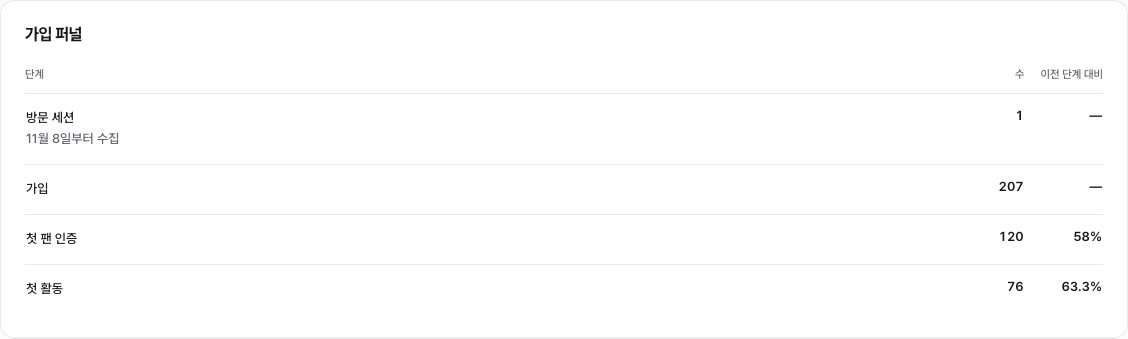
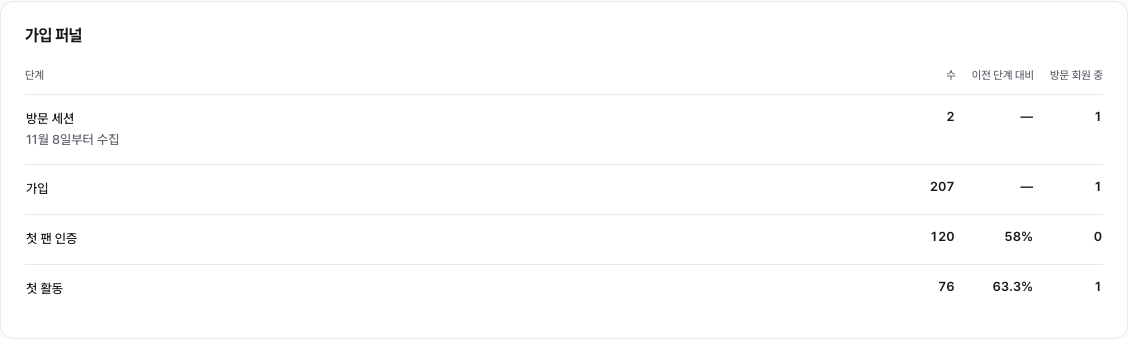
docs(analytics): record member page views, limits, group posts and the visiting-member column

diff --git a/apps/web/features/analytics/README.md b/apps/web/features/analytics/README.md
@@ -40,9 +40,10 @@
 
 `/admin/traffic`의 방문 통계는 Vercel Web Analytics 대신 원장의 `page_view`를 읽는다(운영이 AWS라 Vercel 분석은 렌더되지 않았다). Vercel 분석 패키지와 `VERCEL_ANALYTICS_*` 조회 경로는 제거했다.
 
-- `page_view`(브라우저, `PageViewTracker`): 경로가 바뀔 때 1건, 항상 익명(Authorization 헤더가 있으면 400). 속성은 `pageKind`(열거형 화면 종류), `entry`(탭 세션 첫 화면), `channel`(첫 화면만, 이후 `internal`), `device`, `browser`, `os` 여섯 개뿐이다. 경로·슬러그·쿼리·해시·참조 주소는 보내지 않는다. 관리자·운영자·크리에이터 도구·인증 경로는 세지 않는다.
+- `page_view`(브라우저, `PageViewTracker`): 경로가 바뀔 때 1건. 로그인 상태면 회원 소유, 아니면 익명 탭 세션 소유로 기록한다(내부 집계용, 외부 전송 없음, 관리자 화면은 집계만). 속성은 `pageKind`(열거형 화면 종류), `entry`(탭 세션 첫 화면), `channel`(첫 화면만, 이후 `internal`), `device`, `browser`, `os` 여섯 개뿐이다. 경로·슬러그·쿼리·해시·참조 주소는 보내지 않는다. 관리자·운영자·크리에이터 도구·인증 경로는 세지 않는다. **방문(세션)은 `entry=true` 1건**이고, 첫 화면 표시는 sessionStorage에 남아 로그인 뒤에도 유지되므로 보던 탭에서 로그인해도 방문은 1번이다. 익명 세션과 회원은 연결하지 않는다.
 - `share_completed`(브라우저, `recordShareCompleted`): 공유 시트 완료나 링크 복사 성공 뒤 1건. `method`(native/copy)와 `contentType`(post/notice/passport/jjinfan/share_proof)만. 로그인 상태면 회원 소유로 기록해 첫 활동에 들어간다.
-- 서버 기록(`server.commit_projection`, 업무 행의 id로 멱등): `fan_verification_started`(퀴즈 시작), `fan_verification_submitted`(`outcome`·`reason`=none/score_below_pass·`score`), `daily_checkin_completed`(`streak`), `post_created`(`category`), `comment_created`(`reply`), `cheer_completed`(응원 글, 답글 제외). DB가 업무 행의 존재·소유자·값을 다시 확인하므로 위조 기록은 거부된다. 기록 실패는 업무 쓰기를 막지 않는다.
+- 서버 기록(`server.commit_projection`, 업무 행의 id로 멱등): `fan_verification_started`(퀴즈 시작), `fan_verification_submitted`(`outcome`·`reason`=none/score_below_pass·`score`), `daily_checkin_completed`(`streak`), `post_created`(`category`, `board`=fan/group: 팬게시판과 모임 글), `comment_created`(`reply`), `cheer_completed`(응원 글, 답글 제외, 회원·크리에이터·KST 일 단위 1건). DB가 업무 행의 존재·소유자·값을 다시 확인하므로 위조 기록은 거부된다. 기록 실패나 1초 넘는 잠금 대기는 이벤트만 건너뛰고 업무 쓰기를 막지 않는다.
+- 상한: `/api/events`는 엣지가 넣은 클라이언트 IP(`x-byus-client-ip`, 해시로만 전달)당 분당 60건, `page_view`는 소유자(탭 세션 또는 회원)당 KST 하루 500건. 넘으면 204로 조용히 버린다.
 - GA4 이름 대응은 `domain/funnel-event.ts`의 `GA4_EVENT_NAME`(funnel-audit `ga4-plan.md` 6절)을 따른다.
 
-`read_admin_web_traffic`·`read_admin_funnel_analytics`는 service_role만 실행하며 관리자를 DB에서 다시 확인한다. 퍼널 4단계는 같은 UTC 기간의 단계별 수이고 한 코호트를 따라간 전환이 아니다: 방문 세션(`page_view` 세션), 가입(`app_users` 생성), 첫 팬 인증(회원의 첫 패스포트 발급), 첫 활동(출석·글·댓글·응원·로그인 공유 중 회원의 첫 기록). 방문 세션 수집이 기간 중간에 시작됐으면 가입/방문 비율은 표시하지 않는다. 검증: `supabase/tests/funnel_events.sql`, `features/analytics/domain/funnel-*.test.ts`, `server/admin/web-analytics-route.test.ts`.
+`read_admin_web_traffic`·`read_admin_funnel_analytics`는 service_role만 실행하며 관리자를 DB에서 다시 확인한다. 퍼널 4단계는 같은 UTC 기간의 단계별 수이고 한 코호트를 따라간 전환이 아니다: 방문 세션(`page_view` 세션), 가입(`app_users` 생성), 첫 팬 인증(회원의 첫 패스포트 발급), 첫 활동(출석·팬게시판 글·모임 글·댓글·응원·로그인 공유 중 회원의 첫 기록). 보조 지표 `visitedMembers`는 기간 안에 로그인 상태로 방문한 회원 중 같은 기간에 가입·첫 인증·첫 활동한 수다. 방문 세션 수집이 기간 중간에 시작됐으면 가입/방문 비율은 표시하지 않는다. 검증: `supabase/tests/funnel_events.sql`, 비슈퍼 적용 `supabase/tests/funnel_nonsuper_apply.sh`(dev의 byus_admin 형태, 소유 함수의 FORCE RLS 읽기), `features/analytics/domain/funnel-*.test.ts`, `server/admin/web-analytics-route.test.ts`.

diff --git a/DESIGN.md b/DESIGN.md
@@ -1646,7 +1646,7 @@ At the user's request, registered Changha identity and hero images use the unedi
 - 지갑 제목용 `.walletTitle` 죽은 스타일을 제거했다(표시 변화 없음).
 
 - 게시판 CompactFeed 목록(2026-11-04): 조회수 열을 삭제했다(집계가 없어 값이 `—` 고정이었다). 데스크톱 열은 제목 `minmax(0,1fr)`, 작성자 112px, 날짜 112px, 좋아요 88px이다. 390px에서는 좋아요 열만 숨긴다. 게시글·댓글 작성 시간은 공용 `RelativeTime`(`apps/web/i18n/relative-time.ts`)으로 방금 전·N분 전·N시간 전·N일 전을 보이고, `RELATIVE_TIME_MAX_DAYS = 7`일 이상 지난 글은 기존 절대 날짜로 돌아간다. 1분 미만 문구는 `catalogs/common__relative-time.ts`의 12개 로캘 값(ko 방금 전)이다. 모임 게시판(`group-board.tsx`)의 목록·상세·댓글 시간도 같은 컴포넌트를 쓴다.
-- 방문 통계(`/admin/traffic`) 가입 퍼널 표(2026-11-08 funnel-fix): 기존 `admin-overview-dashboard.module.css` 패널과 `web-analytics-dashboard.module.css` 표를 그대로 쓴다. 제목은 design-lint C2에 따라 `FanHeading`이지만, 팬 화면용 넓은 크기(24px)가 관리자 패널 제목(16px)을 이기므로 `.funnelHeading h2[data-fan-heading]`에서 `--fan-item-title-size`로 되돌린다. 색 강조는 없다. 열은 단계·수·이전 단계 대비, 방문 세션 행에만 수집 시작일을 덧붙인다. 확인은 로컬 DB 값의 390·1440 화면이며 운영·dev 관리자 화면은 보지 않았다.
+- 방문 통계(`/admin/traffic`) 가입 퍼널 표(2026-11-08 funnel-fix): 기존 `admin-overview-dashboard.module.css` 패널과 `web-analytics-dashboard.module.css` 표를 그대로 쓴다. 제목은 design-lint C2에 따라 `FanHeading`이지만, 팬 화면용 넓은 크기(24px)가 관리자 패널 제목(16px)을 이기므로 `.funnelHeading h2[data-fan-heading]`에서 `--fan-item-title-size`로 되돌린다. 색 강조는 없다. 열은 단계·수·이전 단계 대비·방문 회원 중(로그인 방문 회원 코호트), 방문 세션 행에만 수집 시작일을 덧붙인다. 390에서도 4열이 가로 넘침 없이 들어간다. 확인은 로컬 DB 값의 390·1440 화면이며 운영·dev 관리자 화면은 보지 않았다.
 - 채널 운영자 관리 화면(`/admin/operators`, `components/admin/channel-operator-manager.tsx`): 전체 관리자(`role: admin`)만 열 수 있고 조회 전용 관리자는 접근 불가 화면을 본다. 관리자 목록 화면의 `admin-directory-manager.module.css`와 `AdminOperationsShell`·`AlertDialog`를 그대로 재사용하며 새 토큰을 도입하지 않았다. 구성은 제목 → 지정 패널(채널 선택·이메일·지정 버튼) → 운영자 표(이메일·상태·지정일·해지일·작업)이다. 390px에서는 표가 카드 목록으로 바뀐다. 해지는 확인 창을 거치고 해지된 행은 흐리게 남는다(기록 보존). 안내 문구(보조 설명)는 두지 않았고 오류·성공 메시지만 표시한다. 문구는 컴포넌트 안에 ko/en으로 두었으며 화면 문자열 카탈로그 이전은 후속 작업이다. 검증은 합성 데이터의 PC1440·모바일390 로컬 화면이며 운영·dev 화면은 보지 않았다.
 
 ## UI-RUBRIC R04 모임 헤더 포커스 (2026-11-05)
